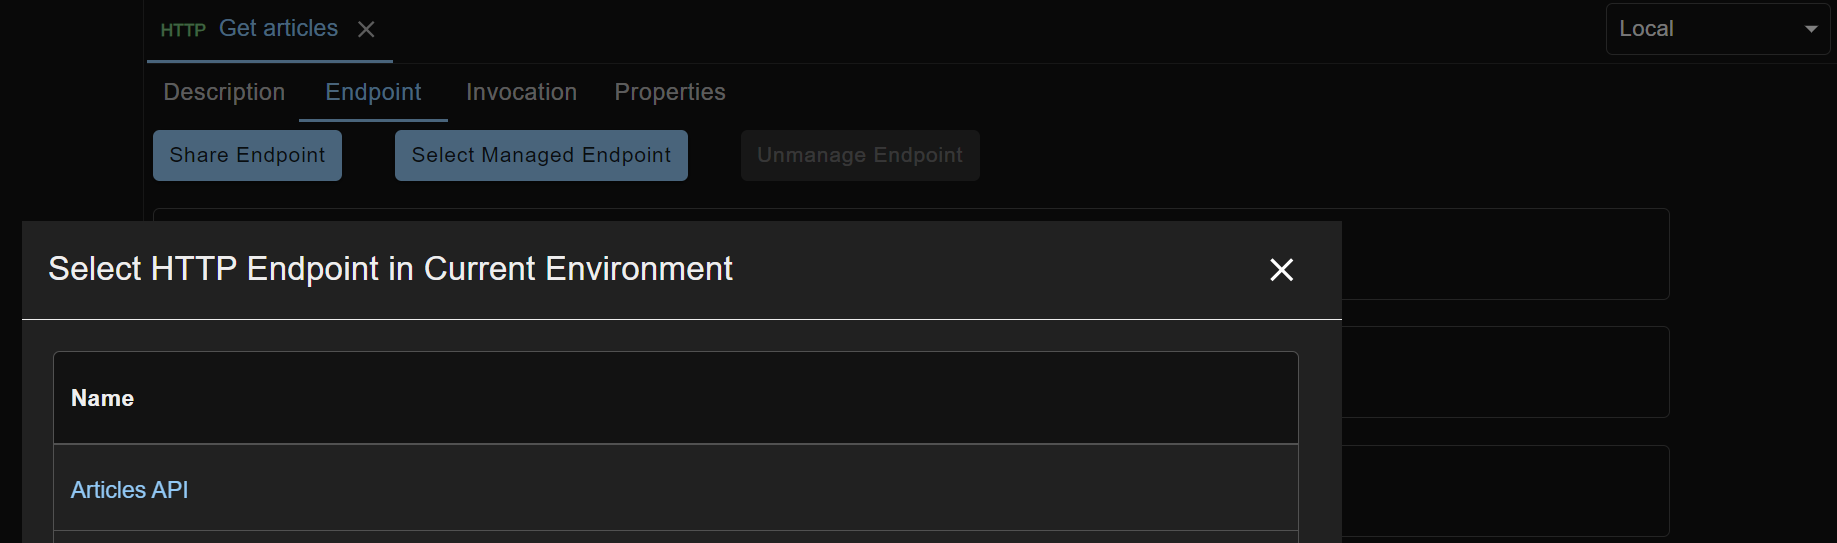
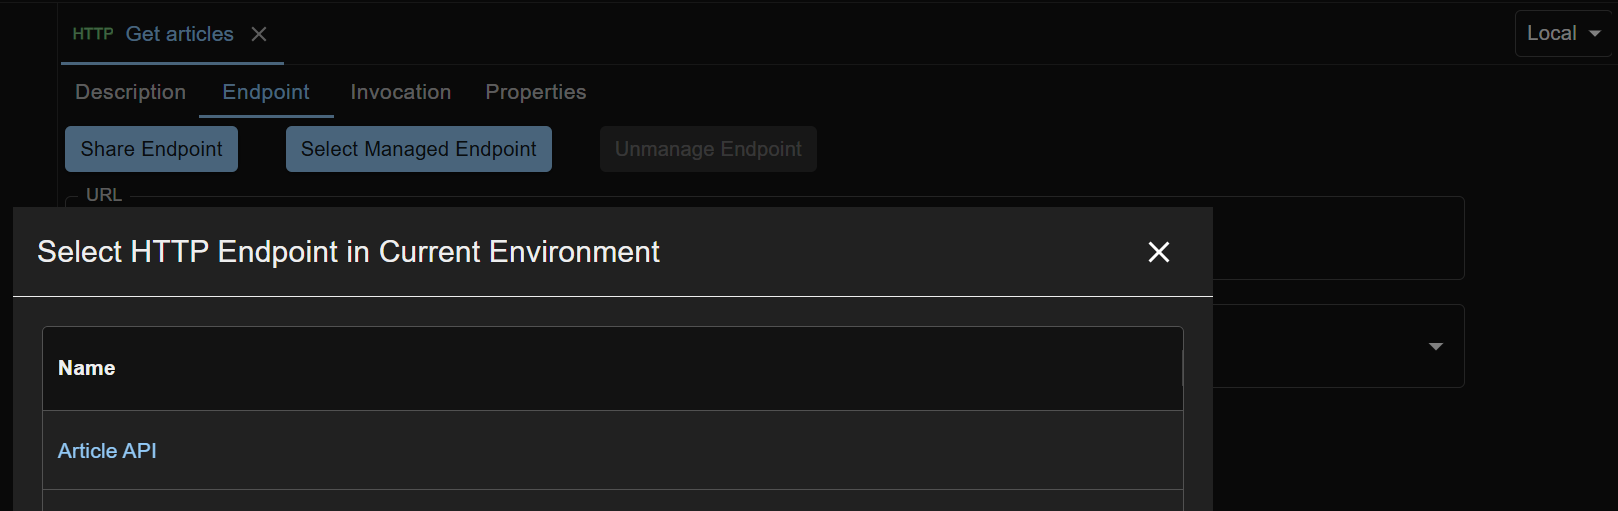
update environment related pages

diff --git a/_docs/en/endpoints-management.md b/_docs/en/endpoints-management.md
@@ -7,16 +7,14 @@ When a new request is created, an `unmanaged endpoint` with empty values will be
 
 Unmanaged endpoint is specific to a request, and is invisible to other requests.
 
-To reuse endpoints across requests, you can create `managed endpoints` in environments.
-
-Refer to this [page](/docs/en/environments-management) for more information about environments.
+To reuse endpoints across requests, you can create `managed endpoints` in [Environments](/docs/en/environments-management).
 
 There are two ways to create a managed endpoint. Here we use HTTP endpoint as an example.
 
-## Create Managed Endpoint in the Environments Area
-Suppose you have created an environment (like 'Local') in the Environments area, open the environment. Click `+ Endpoint` dropdown button, select `HTTP`, give it a name (like 'Articles API') and press Enter. A managed HTTP endpoint is created with its edit view displayed on the right.
+## Create Managed Endpoint in an Environment
+Suppose you have created an environment (like 'Local') in the Environments area, open the environment. Click `+ Endpoint` dropdown button, select `HTTP`, give it a name (like 'Article API') and press Enter. A managed HTTP endpoint is created.
 
-Input details into the fields, and the endpoint looks like below. 
+Enter details into the fields, and the endpoint looks like below. 
 
 ![Managed HTTP Endpoint](../../screenshots/env-mgmt/managed-http-endpoint.png)
 
@@ -29,9 +27,9 @@ Go to an HTTP request, click the `Endpoint` tab, and click `Select Managed Endpo
 Click the endpoint name to select it for use in the HTTP request.
 
 ## Share Unmanaged Endpoint from Request
-This is a convenient feature for you to capture endpoint details while editing a request, and then turn the (unmanaged) endpoint into managed.
+This is a convenient feature for you to capture endpoint details while editing a request, and then turn the unmanaged endpoint into managed.
 
-Under `Endpoint` tab of a request, click `Share Endpoint` button. Enter details and click `OK` button. The (unmanaged) endpoint will be shared into the currently selected environment (here 'Local').
+Under `Endpoint` tab of a request, click `Share Endpoint` button. Enter details and click `OK` button. The unmanaged endpoint will be shared into the currently selected environment (here 'Local').
 
 ![Share Unmanaged Endpoint](../../screenshots/env-mgmt/share-unmanaged-endpoint.png)
 

diff --git a/_docs/en/environments-management.md b/_docs/en/environments-management.md
@@ -3,12 +3,12 @@ title: Environments Management
 permalink: /docs/en/environments-management
 key: docs-environments-management
 ---
-Environments are where common endpoints are managed. You can select an environment for your workspace, so that managed endpoints from that environment can be used when running requests.
+Environments are where common properties and endpoints are managed. You can select an environment for your workspace, so that properties and managed endpoints from that environment can be used when running requests or test cases.
 
 ## Create an Environment
 To create an environment, click the `Environments` icon in the left side bar of the screen, right click the blank space in the left side pane and select `New Environment` from the context menu.
 
-Give it a name (like 'Local'), press Enter, and a new empty environment is created with its edit view opened.
+Give it a name (like 'Local'), press Enter, and a new empty environment is created.
 
 ![Environment](../../screenshots/env-mgmt/environment.png)
 
